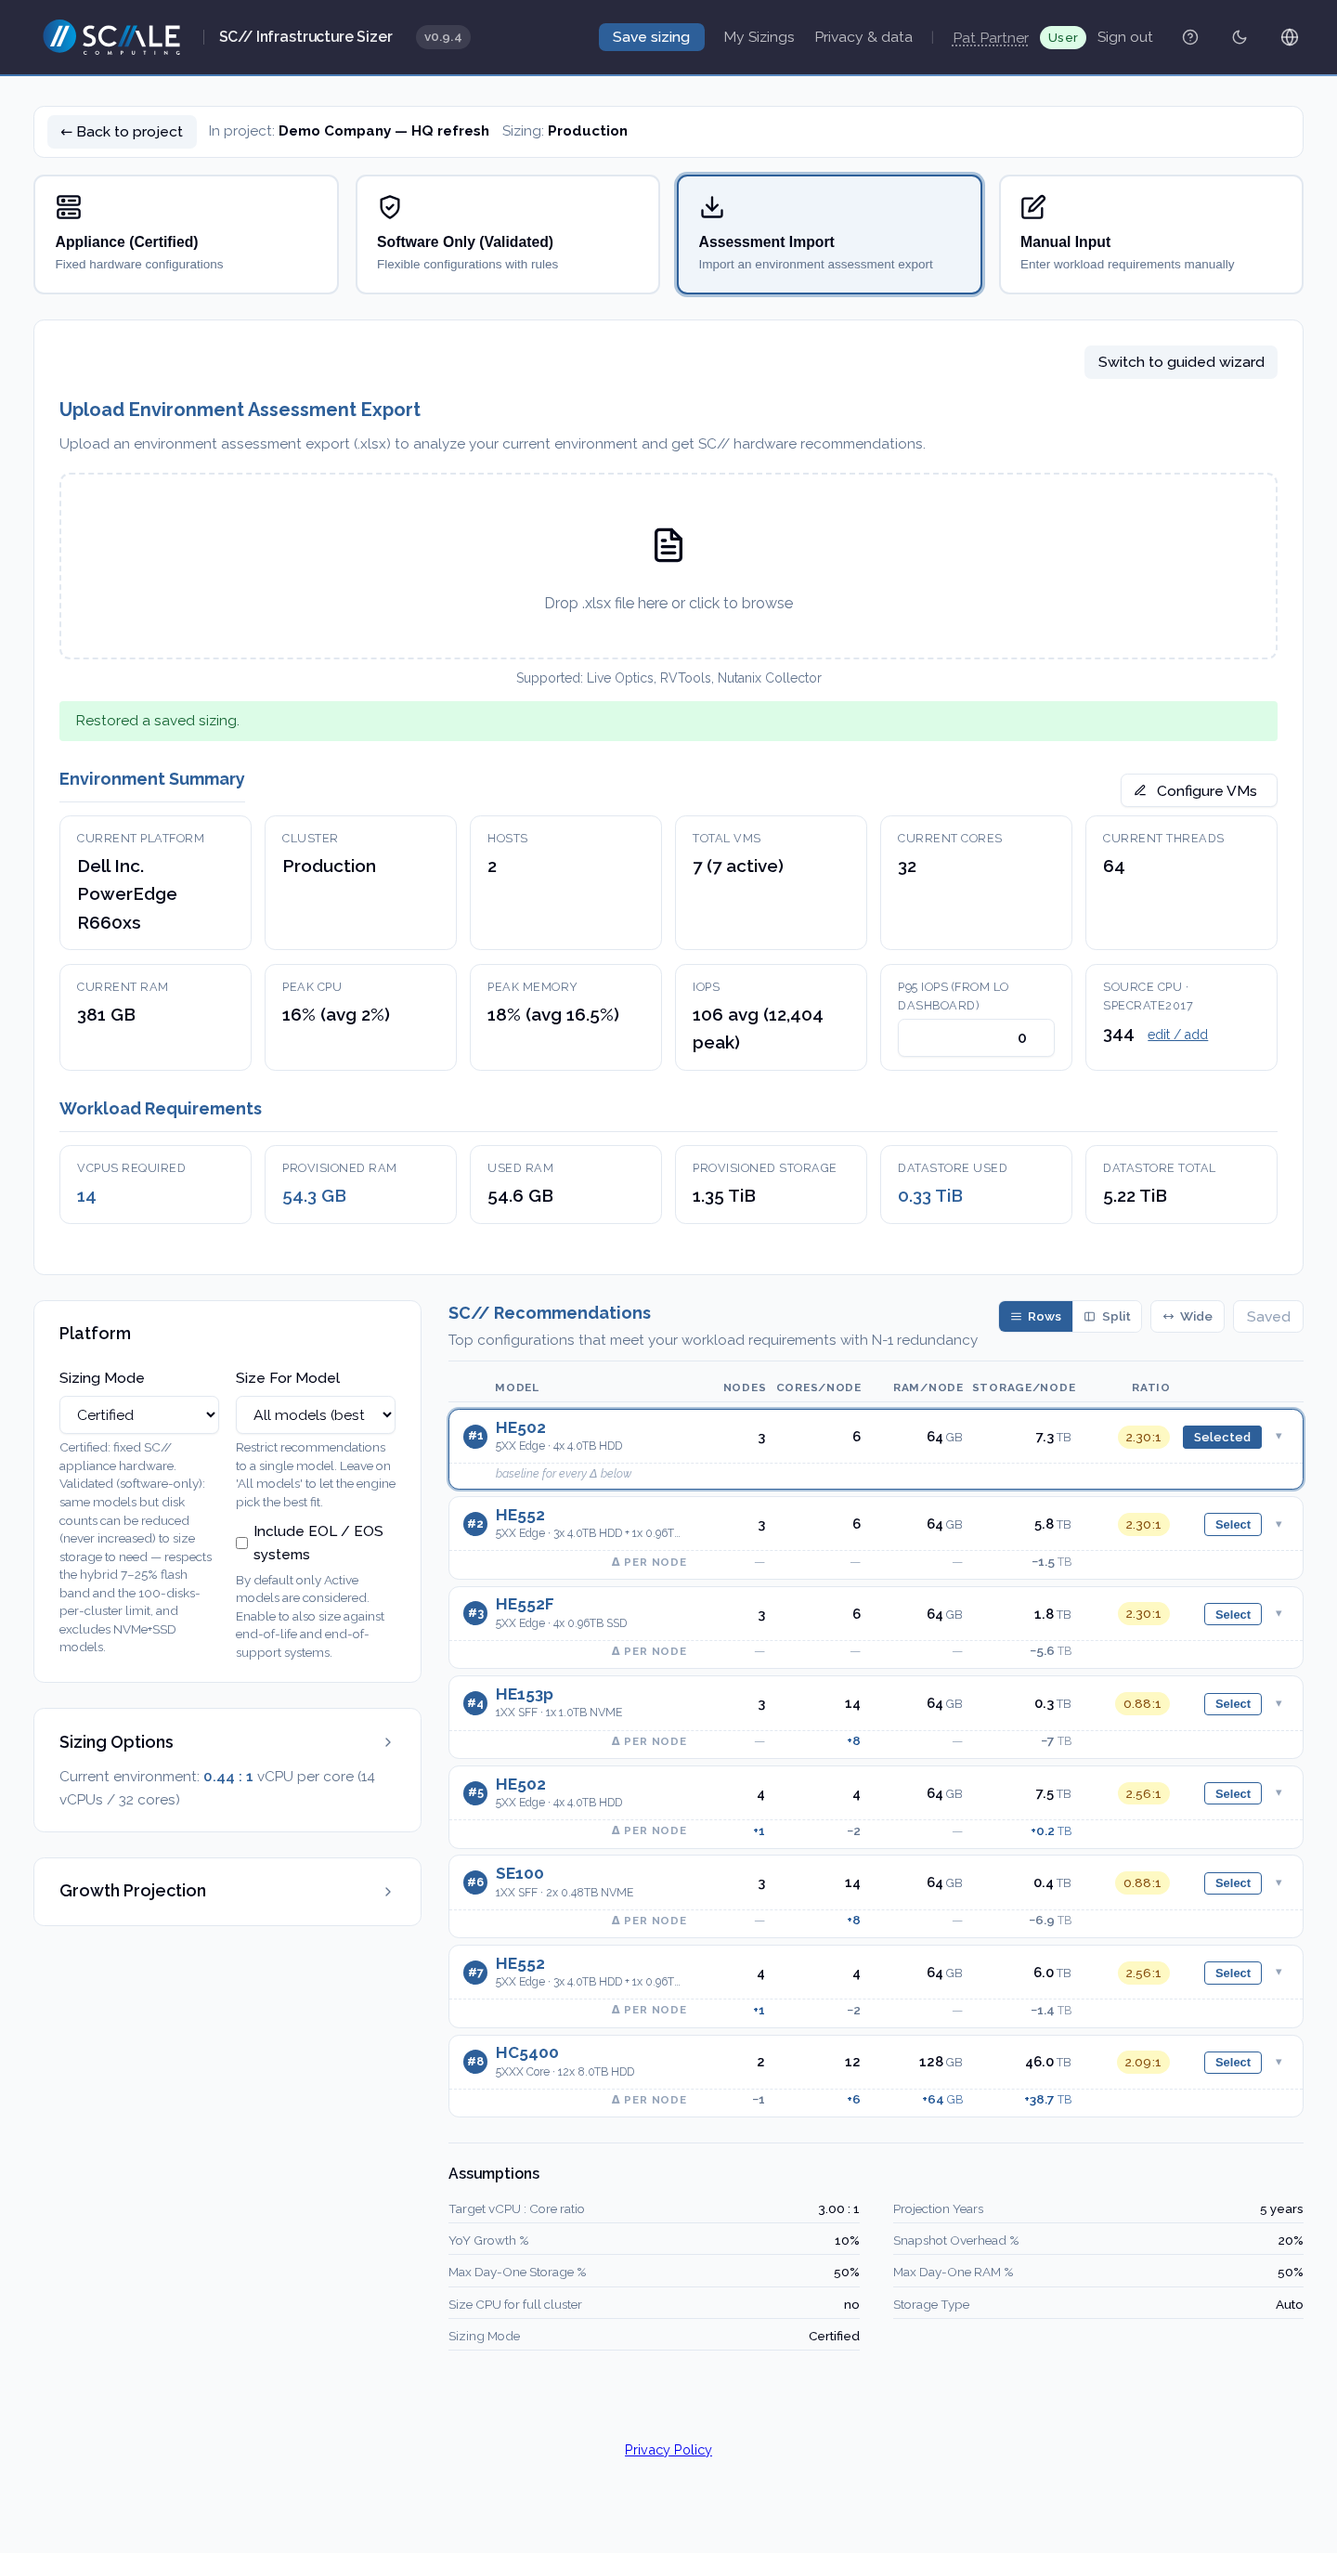
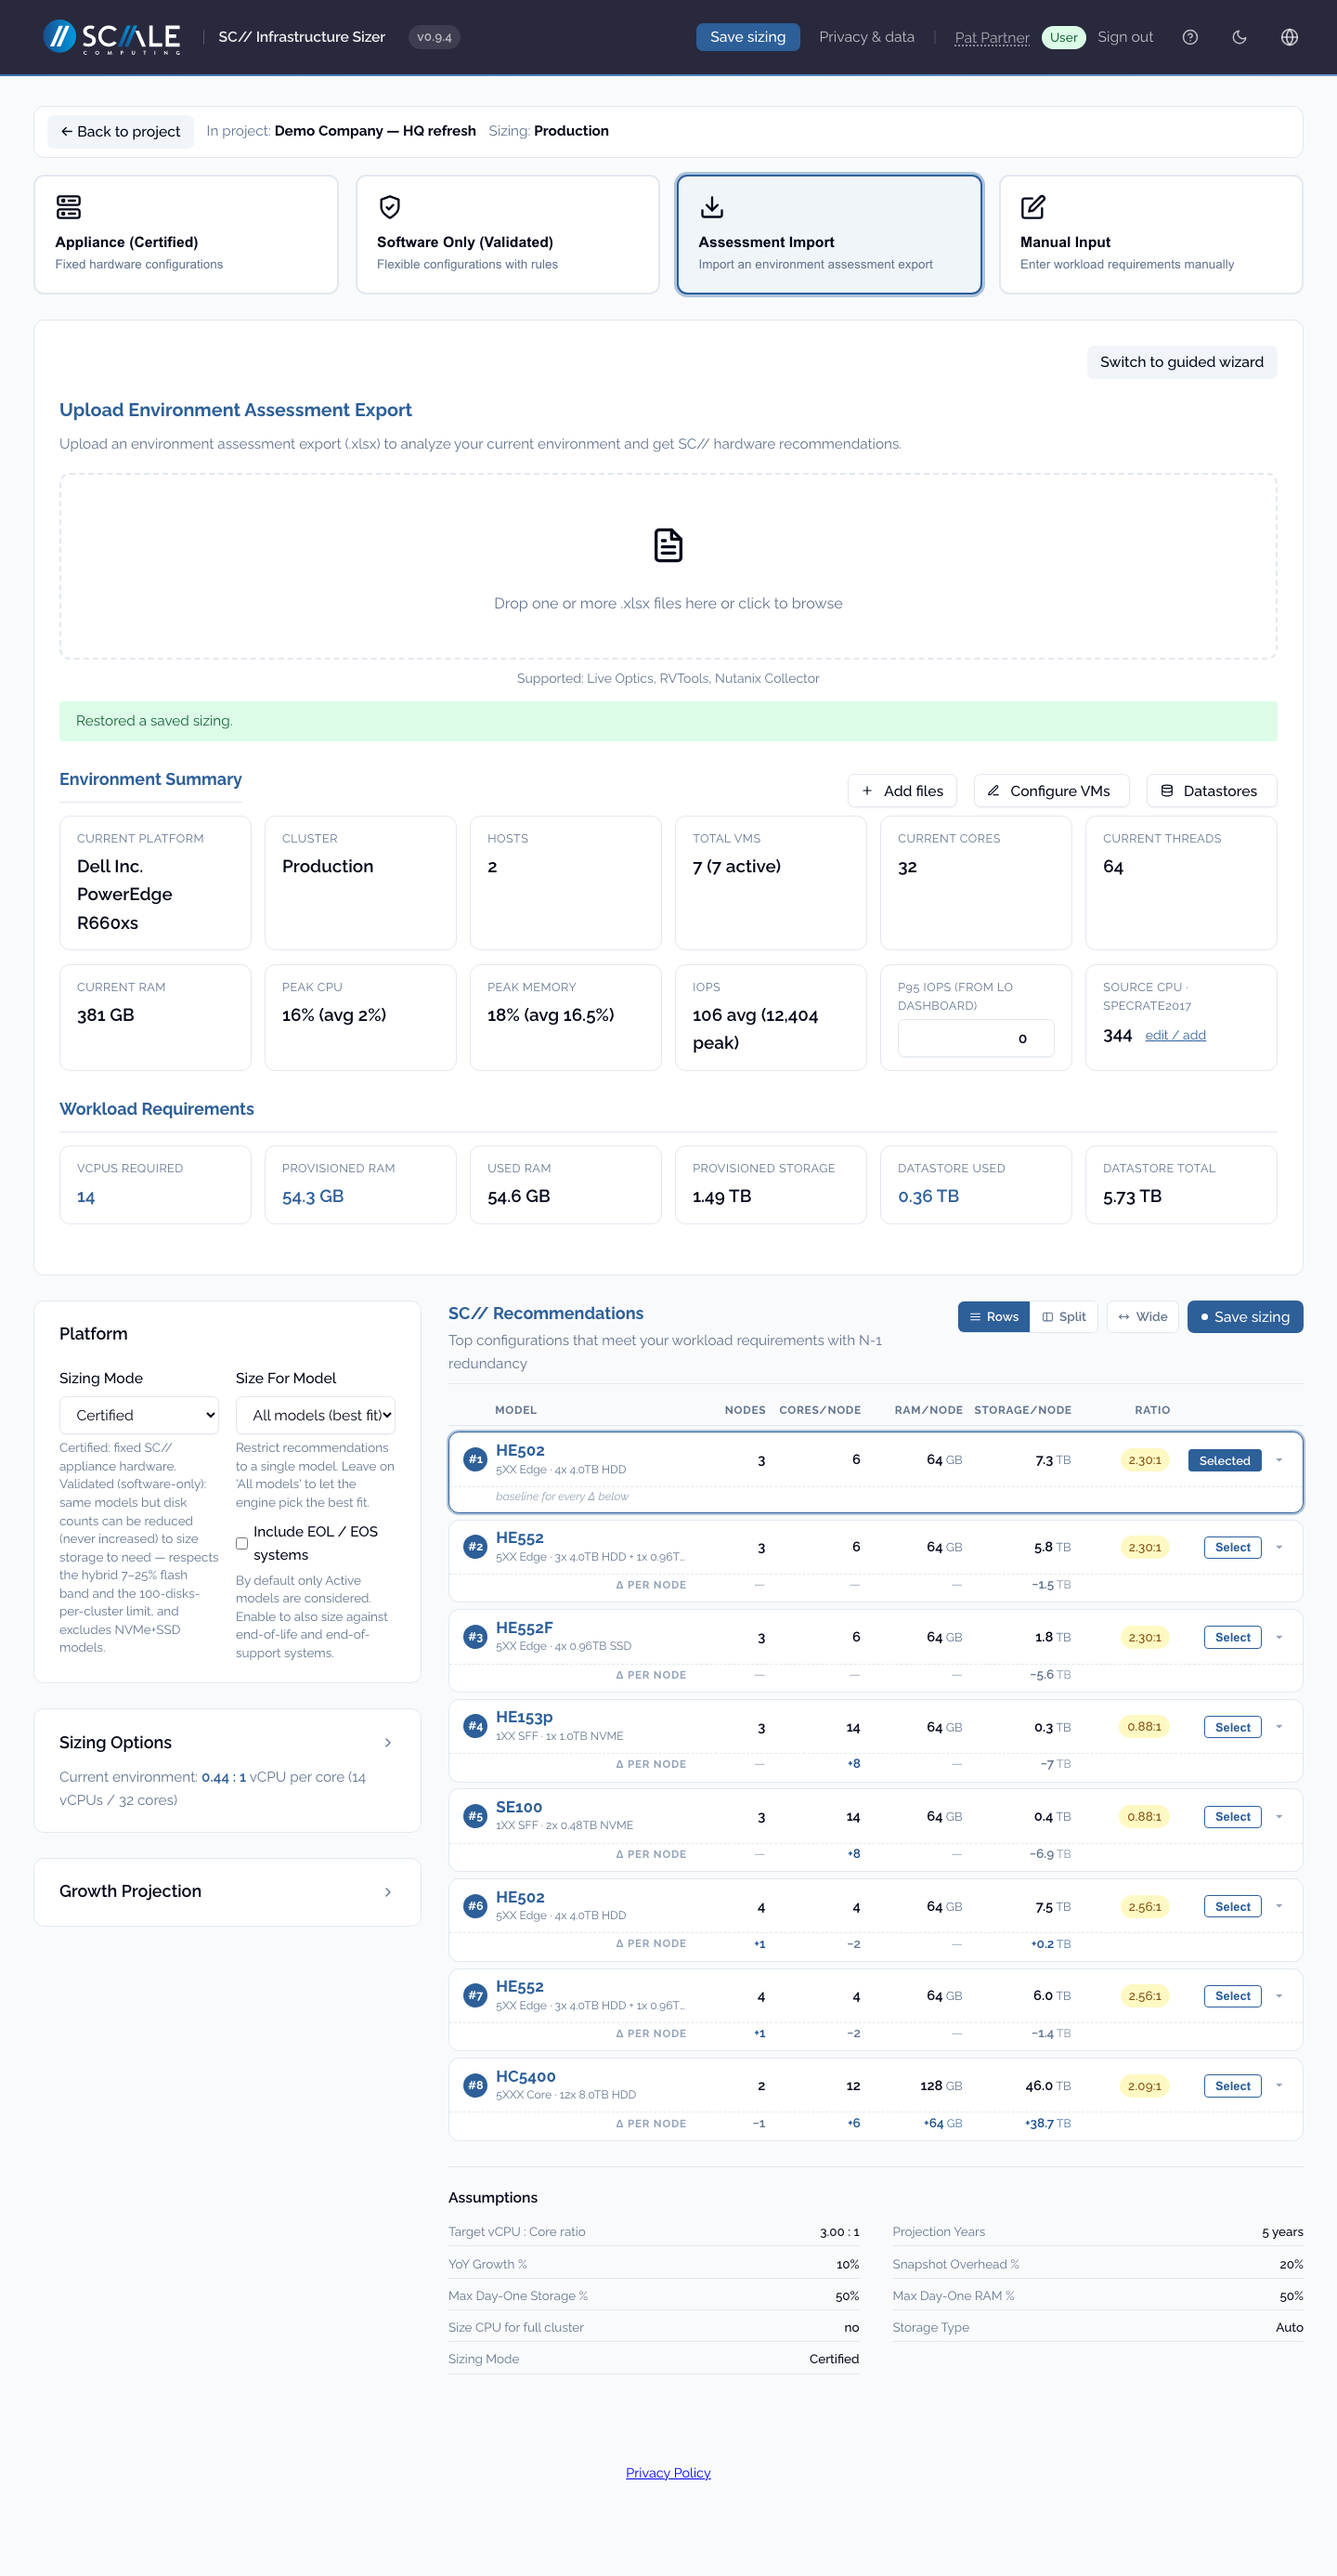
Manual: choosing the datastores (new section, storage basis option, exports, FAQ) with new screenshots
- tools/manual_shots.py: a 'datastores' stage for the dialog and the storage-basis line
- tools/manual_demo_data.py: map each name of a multi-datastore VM, so the demo keeps VM placement
- spacing: Add files / Datastores buttons, the dialog's summary line

diff --git a/app/templates/manual/chapters/sizing.html b/app/templates/manual/chapters/sizing.html
@@ -108,9 +108,41 @@
     <li>A box headed <em>A few things to be aware of about this import</em> appears when the
         data has gaps: for example no performance data, no IOPS data, storage that is only on
         local disks, hosts that are not in a cluster, or a vCPU ratio that had to be assumed
-        (physical-server scans).</li>
+        (physical-server scans). It also warns when the datastores hold far more than the
+        VMs' disks, and names the largest datastore. That usually means a datastore holds
+        data that is not VM storage; see <a href="#datastores">Choosing the datastores</a>.</li>
+    <li>{{ m.ui("Datastores") }} (next to {{ m.ui("Add files") }}) opens the list of
+        datastores in the sizing, explained below.</li>
 </ul>
 {{ m.shot("source-cpu", "Source CPU performance: benchmark scores per detected CPU") }}
+
+<h4 id="datastores">Choosing the datastores</h4>
+<p>The storage the sizer sizes for is the used capacity of the datastores in the
+   <em>storage basis</em>. By default that is every shared datastore. Per-host local
+   datastores (boot disks, ISO stores) are left out. {{ m.ui("Datastores") }} opens the list,
+   so you can change that for this sizing.</p>
+{{ m.shot("datastore-modal", "The datastores in the sizing, with one shared datastore left out") }}
+<ul>
+    <li>Untick a shared datastore whose data is <strong>not moving</strong> to the new
+        cluster: an archive, backups, a share that is used outside the VMs. Its used capacity
+        leaves the storage basis.</li>
+    <li>Tick a local datastore when its data <strong>does</strong> need to move.</li>
+    <li>Each row shows the type (shared or local), used and total capacity, how full it is,
+        how many hosts mount it, and how many VMs have disks on it. The line under the table
+        adds up what is in the sizing and what you left out. {{ m.ui("Reset to default") }}
+        goes back to all shared datastores in, all local ones out.</li>
+    <li>Nothing changes until you choose {{ m.ui("Apply Changes") }}. Your choice is saved with
+        the sizing.</li>
+</ul>
+<p>The VMs column is only filled in when the export records which datastore each VM is on
+   (VMware Live Optics and Nutanix Collector exports). When it does not, a note above the
+   table says so; the rest of the file was still read in full.</p>
+<p>VMs whose disks are only on left-out datastores are marked
+   <em>datastore out</em> in the VM list (step 3), and their disks leave the VM storage
+   totals too. Excluding such a VM's storage as well does not subtract it a second time.
+   The Word and PowerPoint exports list the datastores you left out and how much they held.</p>
+{% call m.tip() %}Ask before you leave a datastore out. A large archive datastore that the
+   customer does want on the new cluster is exactly the storage you must size for.{% endcall %}
 
 <h4 id="wizard-vms">Step 3: Review VMs</h4>
 <p>Every VM in the export, so you can leave out what should not be sized and correct what is
@@ -122,7 +154,9 @@
         powered-off VMs.</td></tr>
     <tr><td>Excl. Compute / Excl. Storage</td><td>Leave a VM's CPU and RAM out of the sizing,
         or its storage, or both. For example, a VM that is being retired excludes both. A VM
-        whose data moves elsewhere excludes only storage.</td></tr>
+        whose data moves elsewhere excludes only storage. A VM marked <em>datastore out</em>
+        sits only on datastores you left out (see <a href="#datastores">Choosing the
+        datastores</a>); its storage is already out of the sizing.</td></tr>
     <tr><td>{{ m.ui("Select powered off") }}</td><td>Excludes every powered-off VM. With
         {{ m.ui("Include storage in exclusions") }} ticked (the default) their storage is
         excluded too. Untick it to keep sizing their disks.</td></tr>
@@ -158,7 +192,8 @@
 <p>{{ m.ui("Switch to classic view") }} (top right of the wizard) shows everything on one page:
    upload, environment summary, sizing options on the left and recommendations on the right.
    Experienced users often prefer it. The VM review is then behind a {{ m.ui("Configure VMs") }}
-   button, which opens the same list in a dialog. Its {{ m.ui("Apply Changes") }} button
+   button, which opens the same list in a dialog. The {{ m.ui("Datastores") }} button next to
+   it opens the datastore list. Its {{ m.ui("Apply Changes") }} button
    applies your exclusions. {{ m.ui("Switch to guided wizard") }} goes back. Both views share
    the same data, so switching never loses work. Your choice is remembered.</p>
 {{ m.shot("classic-view", "The classic view: everything on one page") }}

diff --git a/app/templates/manual/chapters/options.html b/app/templates/manual/chapters/options.html
@@ -48,10 +48,14 @@
         more nodes than compute does, the extra nodes (beyond two full nodes per cluster)
         become storage-only nodes: no VMs, a single small CPU and minimal RAM, but full storage
         and IOPS. This lowers compute licensing for storage-heavy workloads.</td></tr>
-    <tr><td>Include … GB found on local storage <em>(advanced)</em></td><td>Off</td><td>Only
-        shown when the import found VM data on the hosts' local disks. Tick it to size that
-        data as well. RVTools exports do not report local storage.</td></tr>
+    <tr><td>Storage basis <em>(advanced)</em></td><td>All shared datastores</td><td>Which
+        datastores the storage is sized from, for example <em>3 of 7 datastores, 9.57 TB
+        used</em>. {{ m.ui("Choose datastores…") }} opens the list described in
+        <a href="#datastores">Choosing the datastores</a>; a badge shows how many you changed
+        from the default. Sizings saved before the datastore list show the older
+        <em>Include … GB found on local storage</em> checkbox here instead.</td></tr>
 </table>
+{{ m.shot("storage-basis", "The storage basis line: one datastore changed from the default") }}
 
 <h3 id="opt-growth">Growth Projection</h3>
 <table class="manual-table">

diff --git a/app/templates/manual/chapters/faq.html b/app/templates/manual/chapters/faq.html
@@ -17,8 +17,17 @@
 
     <dt>The recommendation looks too small.</dt>
     <dd>Check that the ratio is realistic for the workload (databases want close to 1:1),
-        that no VMs were excluded by mistake, and whether local storage should be included.
+        that no VMs were excluded by mistake, and that the right datastores are in the storage
+        basis (see <a href="#datastores">Choosing the datastores</a>): a datastore left out by
+        mistake, or a local datastore whose data must move, lowers the storage.
         Remember that CPU and RAM are already sized for one node down.</dd>
+
+    <dt>The datastores hold far more than the VMs use. Why?</dt>
+    <dd>Usually because a datastore holds data that is not in the VMs' disks: an archive, a
+        backup target, an NFS share that something outside the VMs writes to. The import then
+        warns you and names the largest datastore. Ask the customer whether that data is moving;
+        if it is not, leave the datastore out under
+        <a href="#datastores">Choosing the datastores</a>.</dd>
 
     <dt>What is the difference between <em>Alternative</em> and <em>Part of the total</em>?</dt>
     <dd>Parts of the total add up to one estate (sites, clusters, phases). Alternatives

diff --git a/app/static/css/style.css b/app/static/css/style.css
@@ -1417,7 +1417,7 @@ footer {
 .merge-target-list { display: flex; flex-wrap: wrap; align-items: center; gap: 0.4rem; margin: 0.4rem 0 0.8rem; }
 .merge-target-label { color: var(--text-muted); font-size: 0.85rem; }
 .merge-target-list input { width: auto; min-width: 10rem; }
-.wiz-env-actions { display: flex; justify-content: flex-end; margin: 0.6rem 0; }
+.wiz-env-actions { display: flex; justify-content: flex-end; gap: 0.5rem; margin: 0.6rem 0; }
 
 /* "To be sized" badge on machine-created fan-out sizings (project page). */
 .state-badge.state-untouched { background: var(--orange-bg, #fff3e0); color: var(--orange, #b26a00); }
@@ -3865,3 +3865,4 @@ textarea.text-input:focus {
 .bom-full-modal .bom-line-note-error { color: var(--red, #b91c1c); }
 .bom-full-modal .bom-line-note-warning { color: var(--orange); }
 .bom-full-modal .bom-line-note-info { color: var(--text-muted); }
+#ds-summary { padding: 0.6rem 1.5rem; border-top: 1px solid var(--border); }

diff --git a/app/templates/manual/chapters/exports.html b/app/templates/manual/chapters/exports.html
@@ -47,6 +47,10 @@
         hardware when <a href="#exports-as">Exports as</a> is set: configuration, capacity and
         utilization, growth, licensing, the network diagram, and the replication between the
         sizings.</li>
+    <li>When datastores were left out of a sizing (see
+        <a href="#datastores">Choosing the datastores</a>), the document names them and how
+        much they held, so the customer can see why the storage is lower than their
+        datastore totals.</li>
     <li>A sizing with no saved result is left out of the document, and the export says
         which ones were skipped. Size and save them first.</li>
     <li>One document holds at most 50 sections (one per cluster). For a larger selection

diff --git a/tools/manual_shots.py b/tools/manual_shots.py
@@ -276,6 +276,24 @@ class Shooter:
         self.click("wizardNext", wait=2500)
         self.shot("wizard-recs", "#import-wizard", pad=12)
 
+    def stage_datastores(self):
+        """The Datastores dialog on the wizard's environment step, with one
+        shared datastore left out, and the storage-basis line it leaves in
+        the sizing options."""
+        p = self.login(USER)
+        self.open_sizing("Remote-Office")
+        self.click("openDatastoreModal", within="#wiz-after-2", wait=600)
+        # Leave out the second-largest shared datastore (sorted by used).
+        rows = p.locator("#ds-table-body tr:not(.vm-excluded)")
+        rows.nth(1).locator("input[type=checkbox]").uncheck()
+        self.page.wait_for_timeout(300)
+        self.shot("datastore-modal", self.modal("datastore-modal"))
+        self.click("applyDatastoreSelection", wait=2500)
+        self.click("wizardNext", wait=1200)
+        self.click("wizardNext", wait=2500)
+        self.click("wizardToggleAdvanced", wait=800)
+        self.shot("storage-basis", "#local-storage-option", pad=10)
+
     def stage_results(self):
         """Continues on step 5 of the wizard stage's sizing."""
         p = self.login(USER)
@@ -556,7 +574,7 @@ class Shooter:
 # In this order: each stage builds on what the previous ones created.
 STAGES = ("signin", "projects", "import_fanout", "wizard", "results", "populate",
           "alternative", "project_view", "compare", "exports", "dr", "modes",
-          "classic", "bom", "account", "tenant_admin", "staff", "admin")
+          "datastores", "classic", "bom", "account", "tenant_admin", "staff", "admin")
 
 
 def main():

diff --git a/tools/manual_demo_data.py b/tools/manual_demo_data.py
@@ -100,7 +100,12 @@ def scrub(src, out):
                 v = cell.value
                 if not isinstance(v, str) or col is None:
                     continue
-                if col in KIND:
+                if col in KIND and KIND[col] == "ds" and "," in v:
+                    # A VM on several datastores lists them "ds1, ds2": map
+                    # each, so it still points at the datastores it is on.
+                    cell.value = ", ".join(mapper("ds", p.strip()) for p in v.split(",")
+                                           if p.strip())
+                elif col in KIND:
                     cell.value = mapper(KIND[col], v)
                 elif col == "Disk":
                     # a guest drive letter is harmless; a mount path can name
